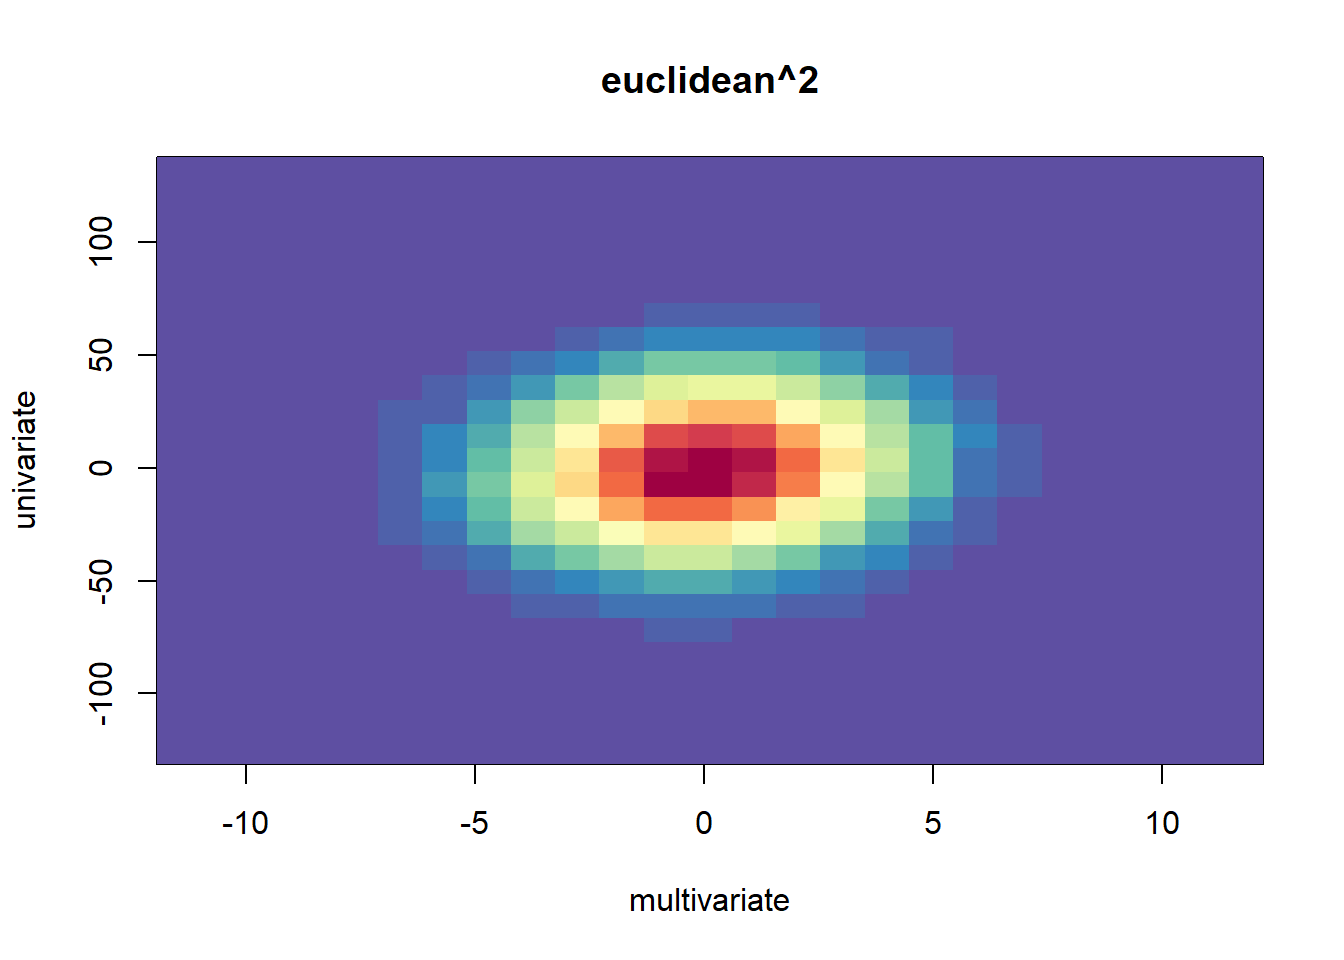
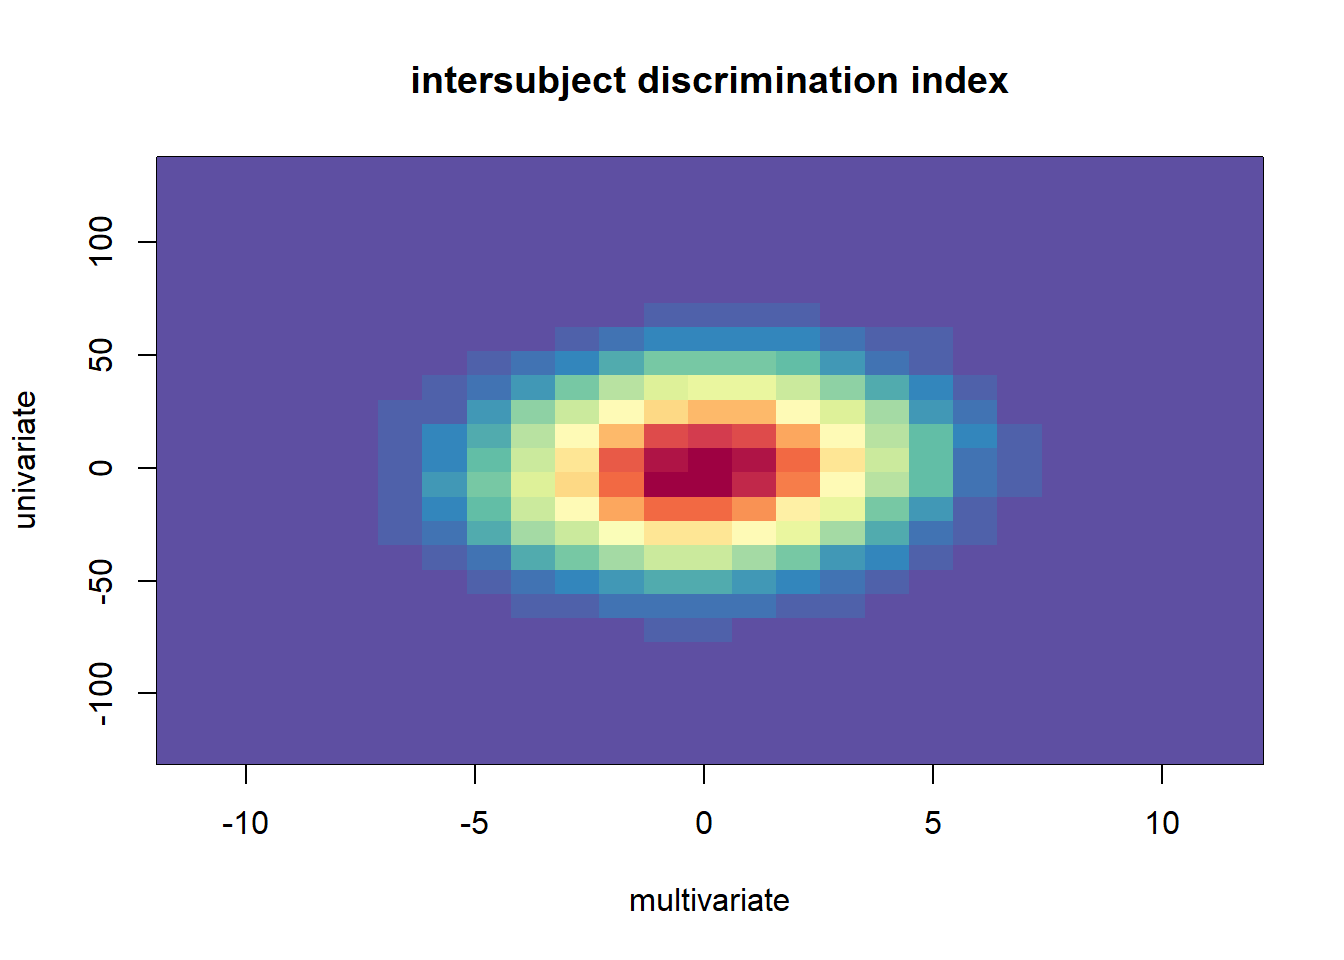
more comments

Changed region(s): [[0.2812, 0.0625, 0.75, 0.125]]

diff --git a/code/fprint/simulation.html b/code/fprint/simulation.html
@@ -188,7 +188,7 @@ pre code {
 <h1 number="1"><span class="header-section-number">1</span> definitions</h1>
 <div id="mutivariate-and-univariate-distance-measures" class="section level2" number="1.1">
 <h2 number="1.1"><span class="header-section-number">1.1</span> mutivariate and univariate distance measures</h2>
-<p>Let <span class="math inline">\(x_{sv}\)</span> be the b-coefficient estimate for subject <span class="math inline">\(s \in 1, \ldots, S\)</span> and for vertex <span class="math inline">\(v \in 1, \ldots, V\)</span> vertices, from fold 1 of the experiment. Fold 1 could be, e.g., run 1, or could be the “test” phase. Let <span class="math inline">\(y_{vt}\)</span> be an analogous estimate from fold 2 of the experiment (e.g., run 2 or “retest” phase), for a not-necessarily-different subject <span class="math inline">\(t \in 1, \ldots, S\)</span>. These estimates are elements of matrices <span class="math inline">\(\mathbf{X}\)</span> and <span class="math inline">\(\mathbf{Y}\)</span>, both of size <span class="math inline">\(S\times V\)</span>.</p>
+<p>Let <span class="math inline">\(x_{sv}\)</span> be the b-coefficient estimate for subject <span class="math inline">\(s \in 1, \ldots, S\)</span> and for vertex <span class="math inline">\(v \in 1, \ldots, V\)</span> vertices, from fold 1 of the experiment. Fold 1 could be, e.g., run 1, or could be the “test” phase. Let <span class="math inline">\(y_{tv}\)</span> be an analogous estimate from fold 2 of the experiment (e.g., run 2 or “retest” phase), for a not-necessarily-different subject <span class="math inline">\(t \in 1, \ldots, S\)</span>. These estimates are elements of matrices <span class="math inline">\(\mathbf{X}\)</span> and <span class="math inline">\(\mathbf{Y}\)</span>, both of size <span class="math inline">\(S\times V\)</span>.</p>
 <p><strong>Multivariate distance measure</strong>: the squared Euclidean distance between vectors <span class="math inline">\(x_s\)</span> and <span class="math inline">\(y_t\)</span>.</p>
 <p><span class="math display">\[\mathit{m}_{st} = \frac{1}{V}\sum_{v=1}^{V} (x_{sv} - y_{tv})^2\]</span></p>
 <p>We scale by the number of vertices <span class="math inline">\(V\)</span> to aid comparability across regions of interest.</p>
@@ -428,8 +428,10 @@ for (ii in 1:n_sim) {
 
   X &lt;- matrix(rnorm(V*S), nrow = S)
   Y &lt;- matrix(rnorm(V*S), nrow = S)
+  ## X is a matrix of b-coefficients. subjects as rows, vertices as columns. from fold 1 (e.g., &quot;test&quot;).
+  ## Y is also a b-coefficient matrix. organized identically to X, but from a different &quot;fold&quot; (e.g., &quot;retest&quot;).
   
-  X_bar &lt;- cbind(rowSums(X))  ## across-vertex sum
+  X_bar &lt;- cbind(rowSums(X))  ## across-vertex sum of b-coefficients. one per subj.
   Y_bar &lt;- cbind(rowSums(Y))
   
   M &lt;- pdist2(X, Y)  ## multivariate distance
@@ -464,8 +466,8 @@ for (ii in 1:n_sim) {
 <pre class="r"><code>hist(d$u)</code></pre>
[1 lines of base64/hex data omitted]
 <pre class="r"><code>kernel_d2 &lt;- kde2d(d$m, d$u)
-image(kernel_d2, col = r, main = &quot;euclidean^2&quot;, xlab = &quot;multivariate&quot;, ylab = &quot;univariate&quot;)</code></pre>
[1 lines of base64/hex data omitted]
+image(kernel_d2, col = r, main = &quot;intersubject discrimination index&quot;, xlab = &quot;multivariate&quot;, ylab = &quot;univariate&quot;)</code></pre>
[1 lines of base64/hex data omitted]
 </div>
 </div>
 </div>
